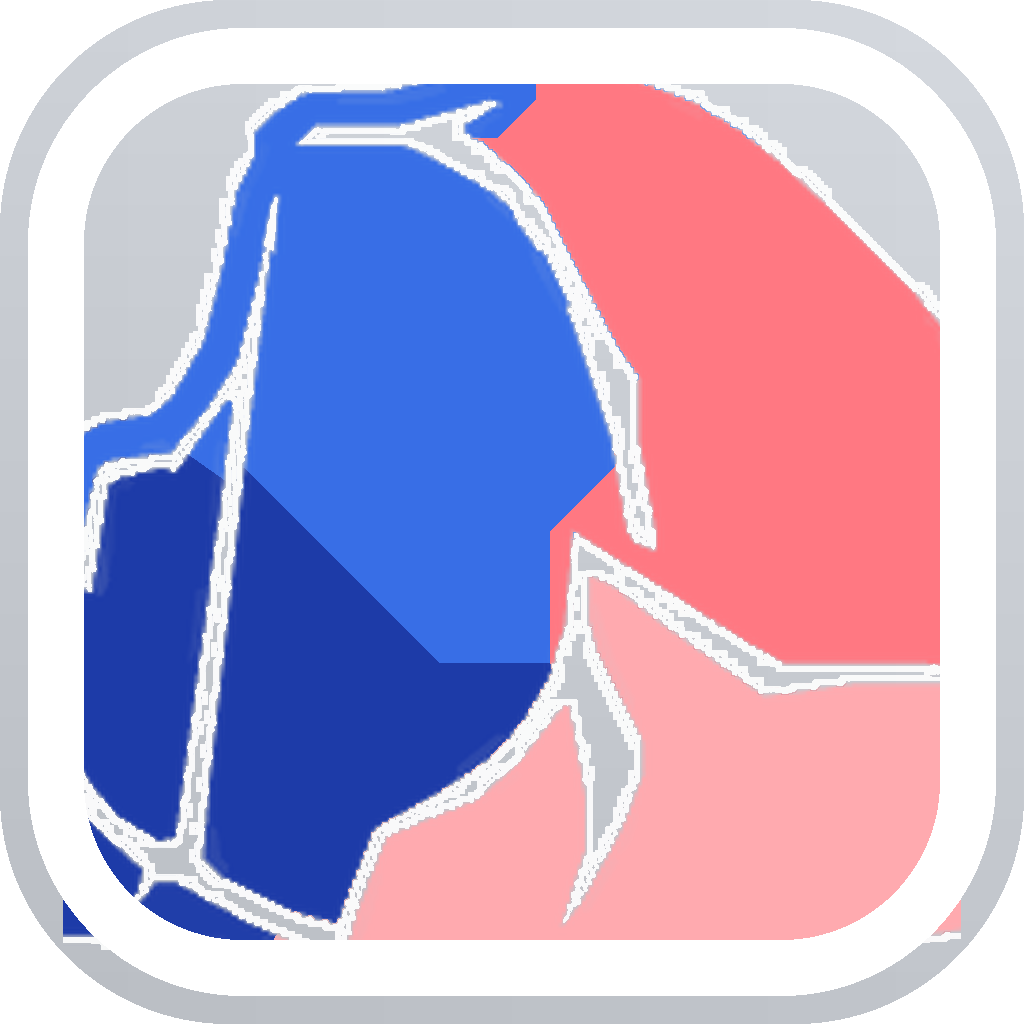
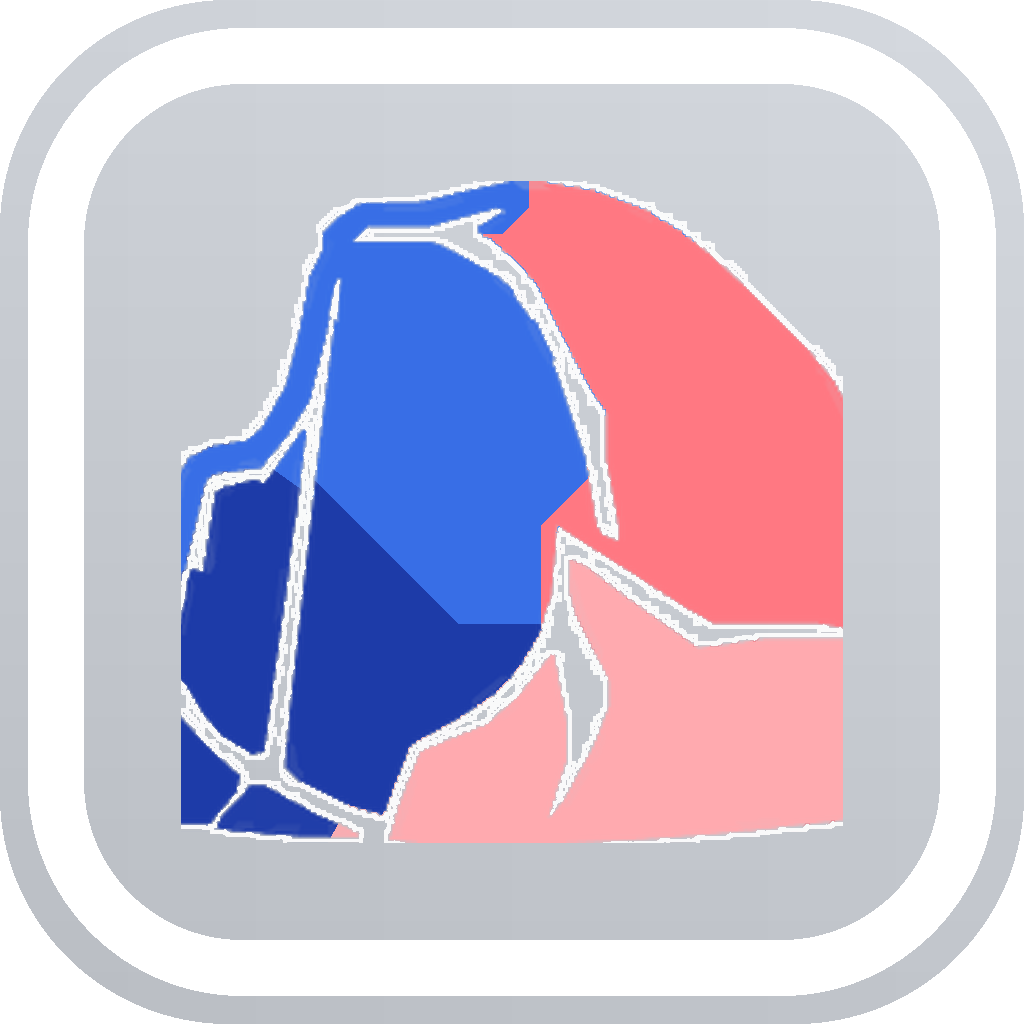
Pull Half Dome dock mark back from the squircle edges.
pad_ratio 0.035 filled the icon too hard; 0.15 leaves a middle-ground margin while keeping hard section fills.

diff --git a/halfdome/scripts/render-icons.py b/halfdome/scripts/render-icons.py
@@ -23,7 +23,7 @@ SEEDS = (
     (0.48, 0.88),
 )
 
-PAD_RATIO = 0.035
+PAD_RATIO = 0.15
 BORDER_RATIO = 0.055
 CORNER_RATIO = 0.223
 
